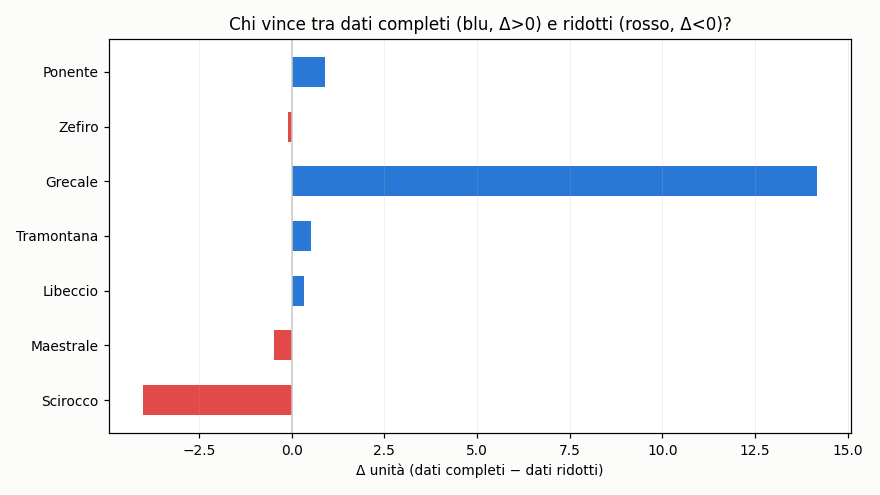
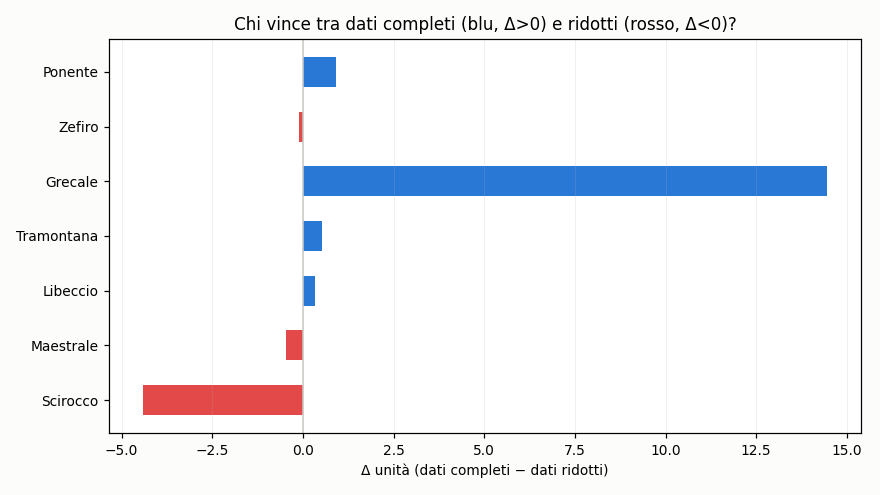
aggiornamento 2026-07-28 17:56 UTC

diff --git a/README.md b/README.md
@@ -37,9 +37,9 @@ scala in unità). Non indichiamo quale.
 
 ## Grafici
 
-![Coppie: dati completi vs ridotti](https://raw.githubusercontent.com/Kitem19/ippica-track-record/main/charts/equity_pairs.png?v=bd003db7)
+![Coppie: dati completi vs ridotti](https://raw.githubusercontent.com/Kitem19/ippica-track-record/main/charts/equity_pairs.png?v=d6b4e832)
 
-![Delta per coppia](https://raw.githubusercontent.com/Kitem19/ippica-track-record/main/charts/coppie_delta.png?v=438f2ebe)
+![Delta per coppia](https://raw.githubusercontent.com/Kitem19/ippica-track-record/main/charts/coppie_delta.png?v=2e82b3fd)
 
 ### Come leggere i grafici
 
@@ -56,11 +56,11 @@ scala in unità). Non indichiamo quale.
 
 _Poche giornate: numeri ancora rumorosi, si conclude a fine fase (31/7)._
 
-- **Scirocco**: dati ridotti avanti di 4,0u — qui gli extra non aiutano
+- **Scirocco**: dati ridotti avanti di 4,4u — qui gli extra non aiutano
 - **Maestrale**: in sostanziale pareggio — troppo presto per dire
 - **Libeccio**: in sostanziale pareggio — troppo presto per dire
 - **Tramontana**: in sostanziale pareggio — troppo presto per dire
-- **Grecale**: dati completi avanti di 14,2u
+- **Grecale**: dati completi avanti di 14,5u
 - **Zefiro**: in sostanziale pareggio — troppo presto per dire
 - **Ponente**: in sostanziale pareggio — troppo presto per dire
 
@@ -68,22 +68,22 @@ _Poche giornate: numeri ancora rumorosi, si conclude a fine fase (31/7)._
 
 | Sistema | Cassa (u) | P/L (u) | Selezioni | Escluse | Stato |
 |---|---|---|---|---|---|
-| Grecale | 13,9 | -6,1 | 348 | 4 | 🟢 |
-| Scirocco-B | 3,9 | -16,1 | 258 | 6 | 🟢 |
-| Maestrale-B | 0,0 | -20,0 | 100 | 281 | 🛑 |
+| Grecale | 14,2 | -5,8 | 349 | 4 | 🟢 |
+| Scirocco-B | 4,3 | -15,7 | 259 | 6 | 🟢 |
+| Maestrale-B | 0,0 | -20,0 | 100 | 282 | 🛑 |
 | Ponente | 0,0 | -20,0 | 213 | 55 | 🛑 |
-| Scirocco | 0,0 | -20,1 | 80 | 304 | 🛑 |
-| Grecale-B | 0,0 | -20,2 | 137 | 196 | 🛑 |
+| Scirocco | 0,0 | -20,1 | 80 | 305 | 🛑 |
+| Grecale-B | 0,0 | -20,2 | 137 | 197 | 🛑 |
 | Tramontana | 0,0 | -20,3 | 45 | 343 | 🛑 |
 | Zefiro-B | 0,0 | -20,5 | 143 | 97 | 🛑 |
-| Maestrale | 0,0 | -20,5 | 104 | 300 | 🛑 |
-| Zefiro | 0,0 | -20,6 | 268 | 31 | 🛑 |
-| Libeccio | 0,0 | -20,6 | 181 | 206 | 🛑 |
-| Tramontana-B | 0,0 | -20,8 | 324 | 52 | 🛑 |
-| Libeccio-B | 0,0 | -20,9 | 119 | 217 | 🛑 |
+| Maestrale | 0,0 | -20,5 | 104 | 301 | 🛑 |
+| Zefiro | 0,0 | -20,6 | 268 | 32 | 🛑 |
+| Libeccio | 0,0 | -20,6 | 181 | 207 | 🛑 |
+| Tramontana-B | 0,0 | -20,8 | 324 | 53 | 🛑 |
+| Libeccio-B | 0,0 | -20,9 | 119 | 218 | 🛑 |
 | Ponente-B | 0,0 | -21,0 | 63 | 114 | 🛑 |
 
-_Aggiornato: 28/07 19:51_
+_Aggiornato: 28/07 19:56_
 ---
 *Nessuna delle informazioni qui pubblicate costituisce consiglio di gioco.
 Il gioco può causare dipendenza — 18+.*
